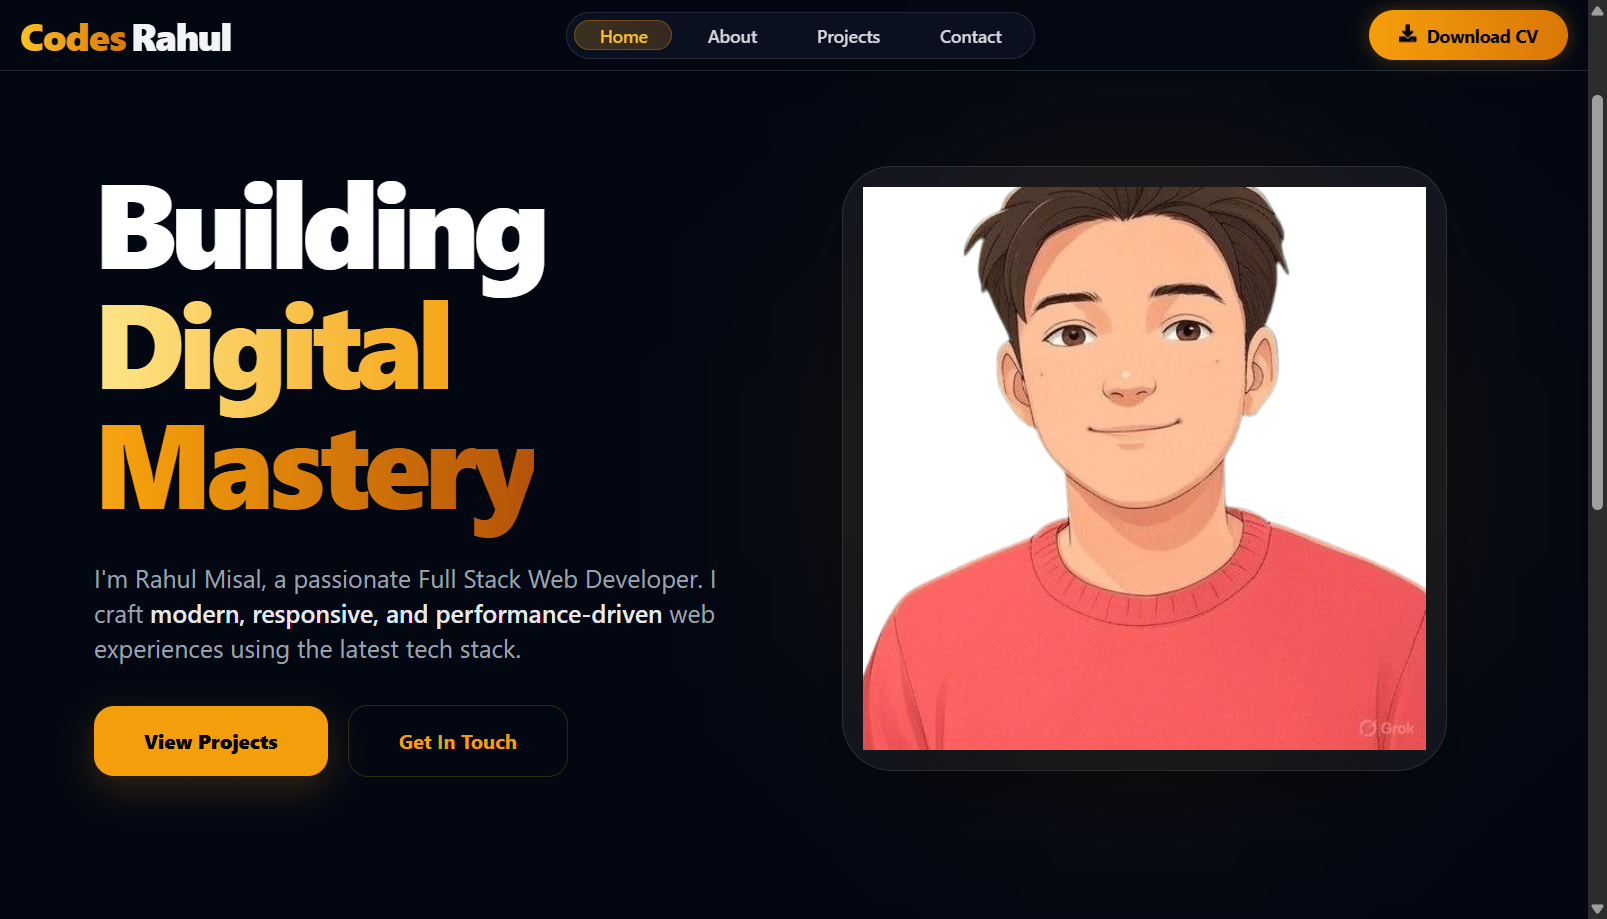
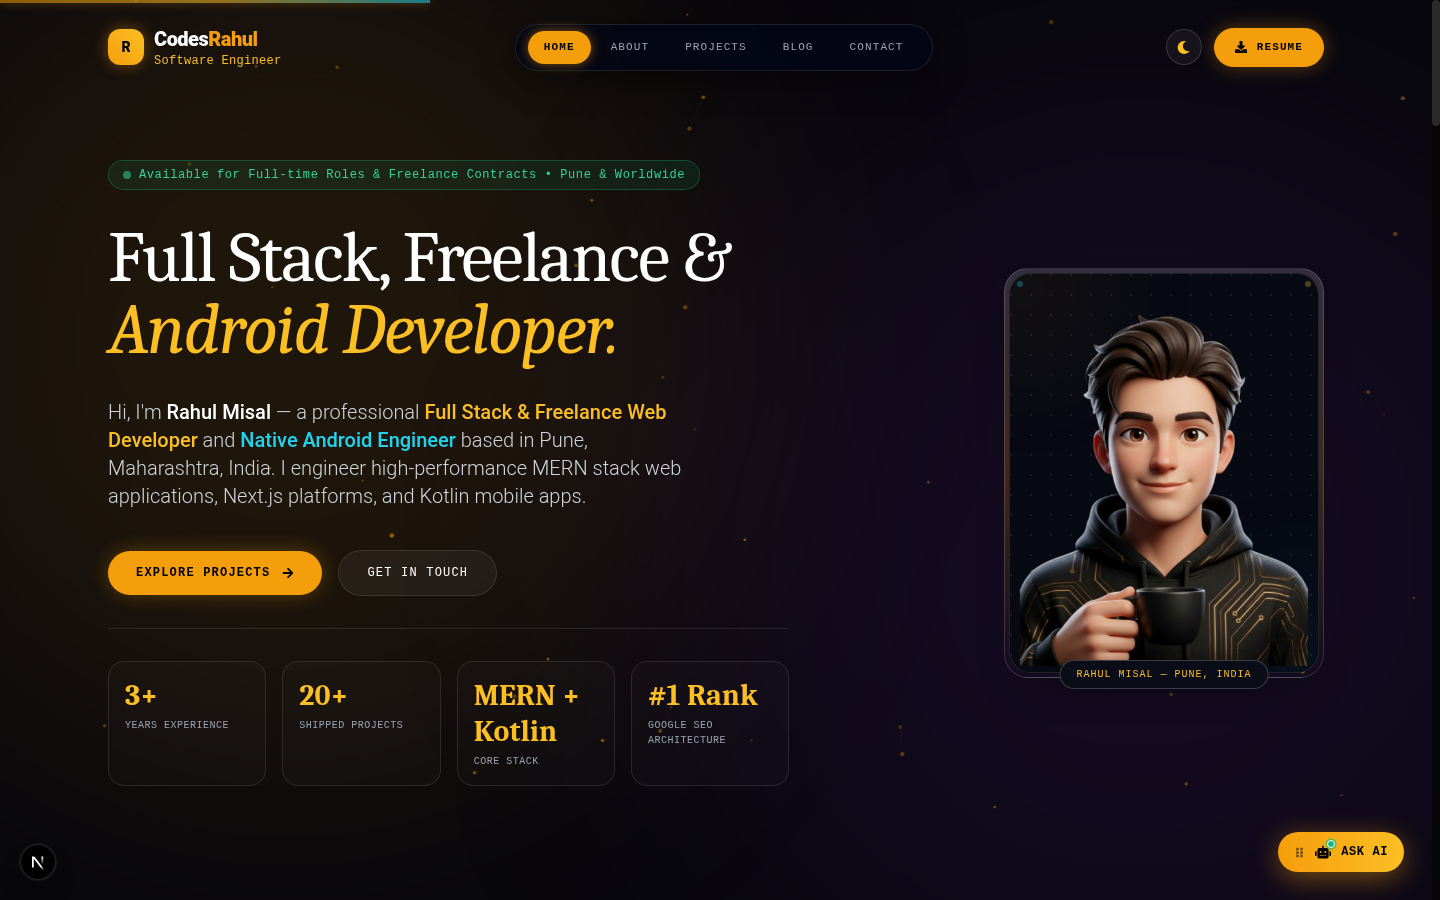
docs: update home page preview screenshot and readme features

diff --git a/README.md b/README.md
@@ -6,7 +6,7 @@ Welcome to my personal portfolio repository! This is a modern, enterprise-grade,
 
 ## ✨ Features
 
-- **"Anti-AI" Brutalist UI/UX**: Built with a bespoke design philosophy using stark contrasts, complex serif/sans-serif typography pairings, negative space, and organic noise overlays to stand out from generic templates.
+- **Executive Bento Grid & Editorial UI/UX**: Built with a bespoke design philosophy using stark contrasts, complex serif/sans-serif typography pairings, negative space, and organic noise overlays to stand out with senior engineering polish.
 - **Advanced Animations**: Powered by **Framer Motion** for cinematic page load sequences, staggering reveals, and interactive hover effects.
 - **Serverless Backend Architecture**:
   - Fully functional contact form powered by **Next.js Server Actions**.
